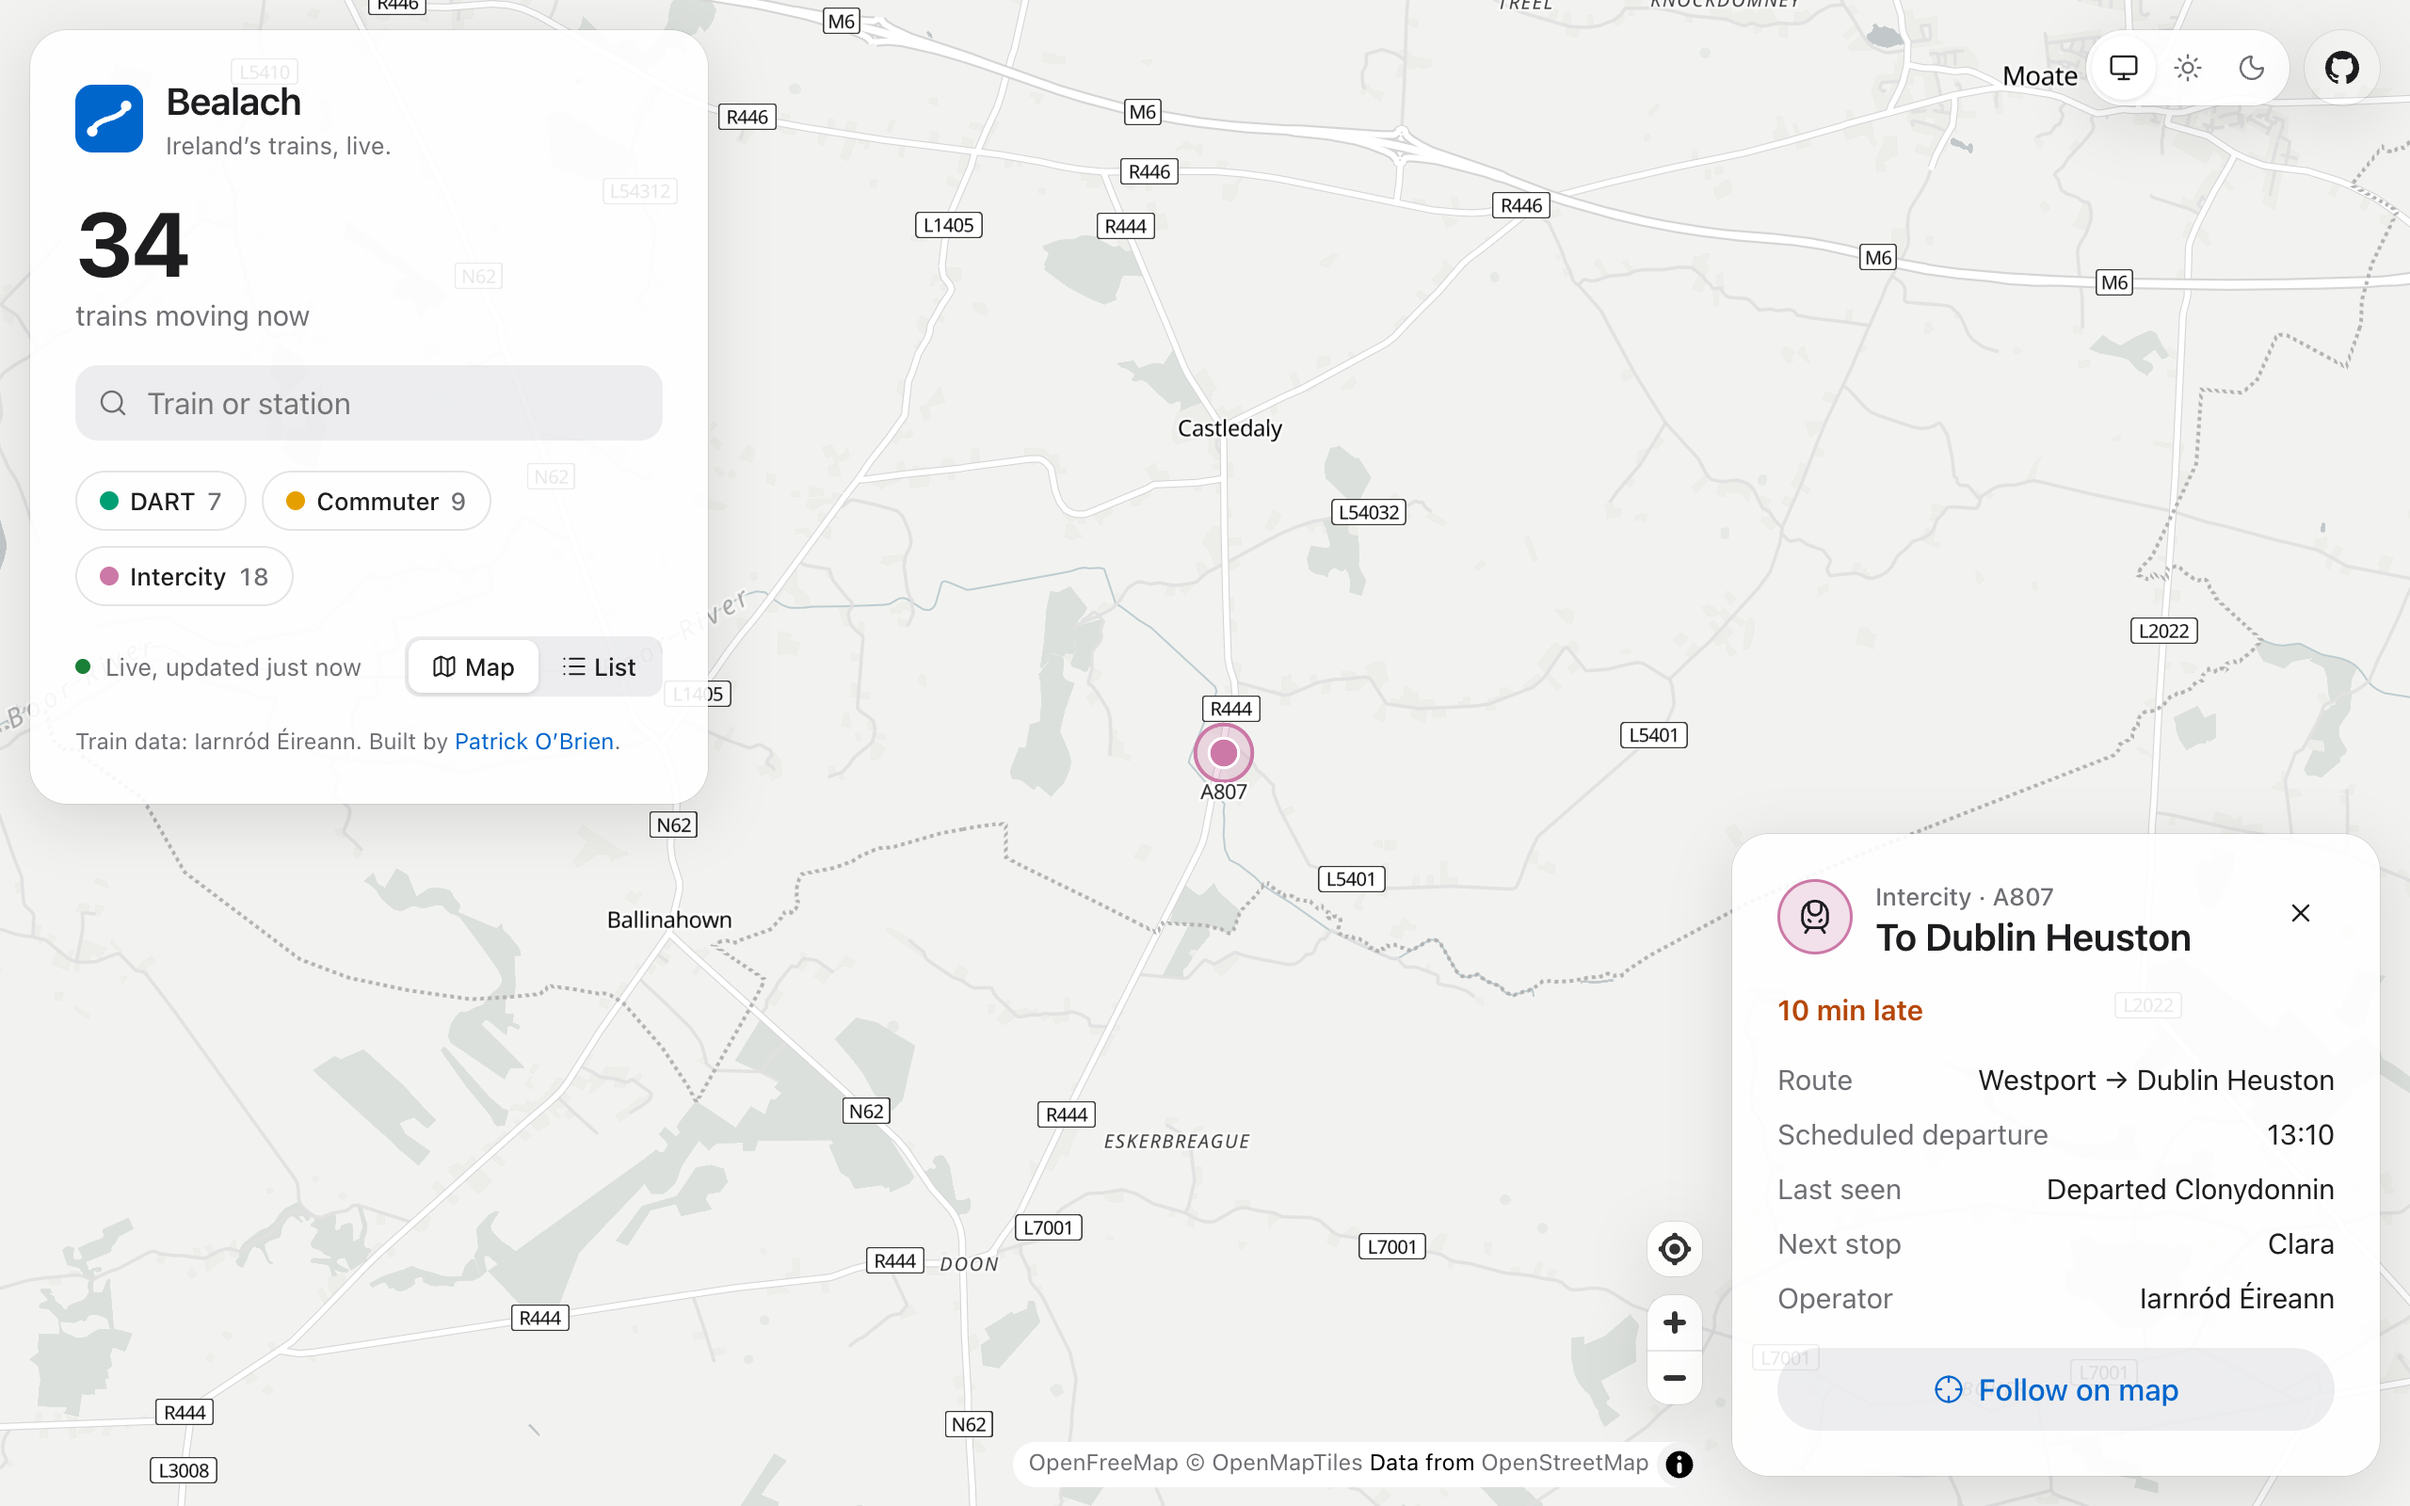
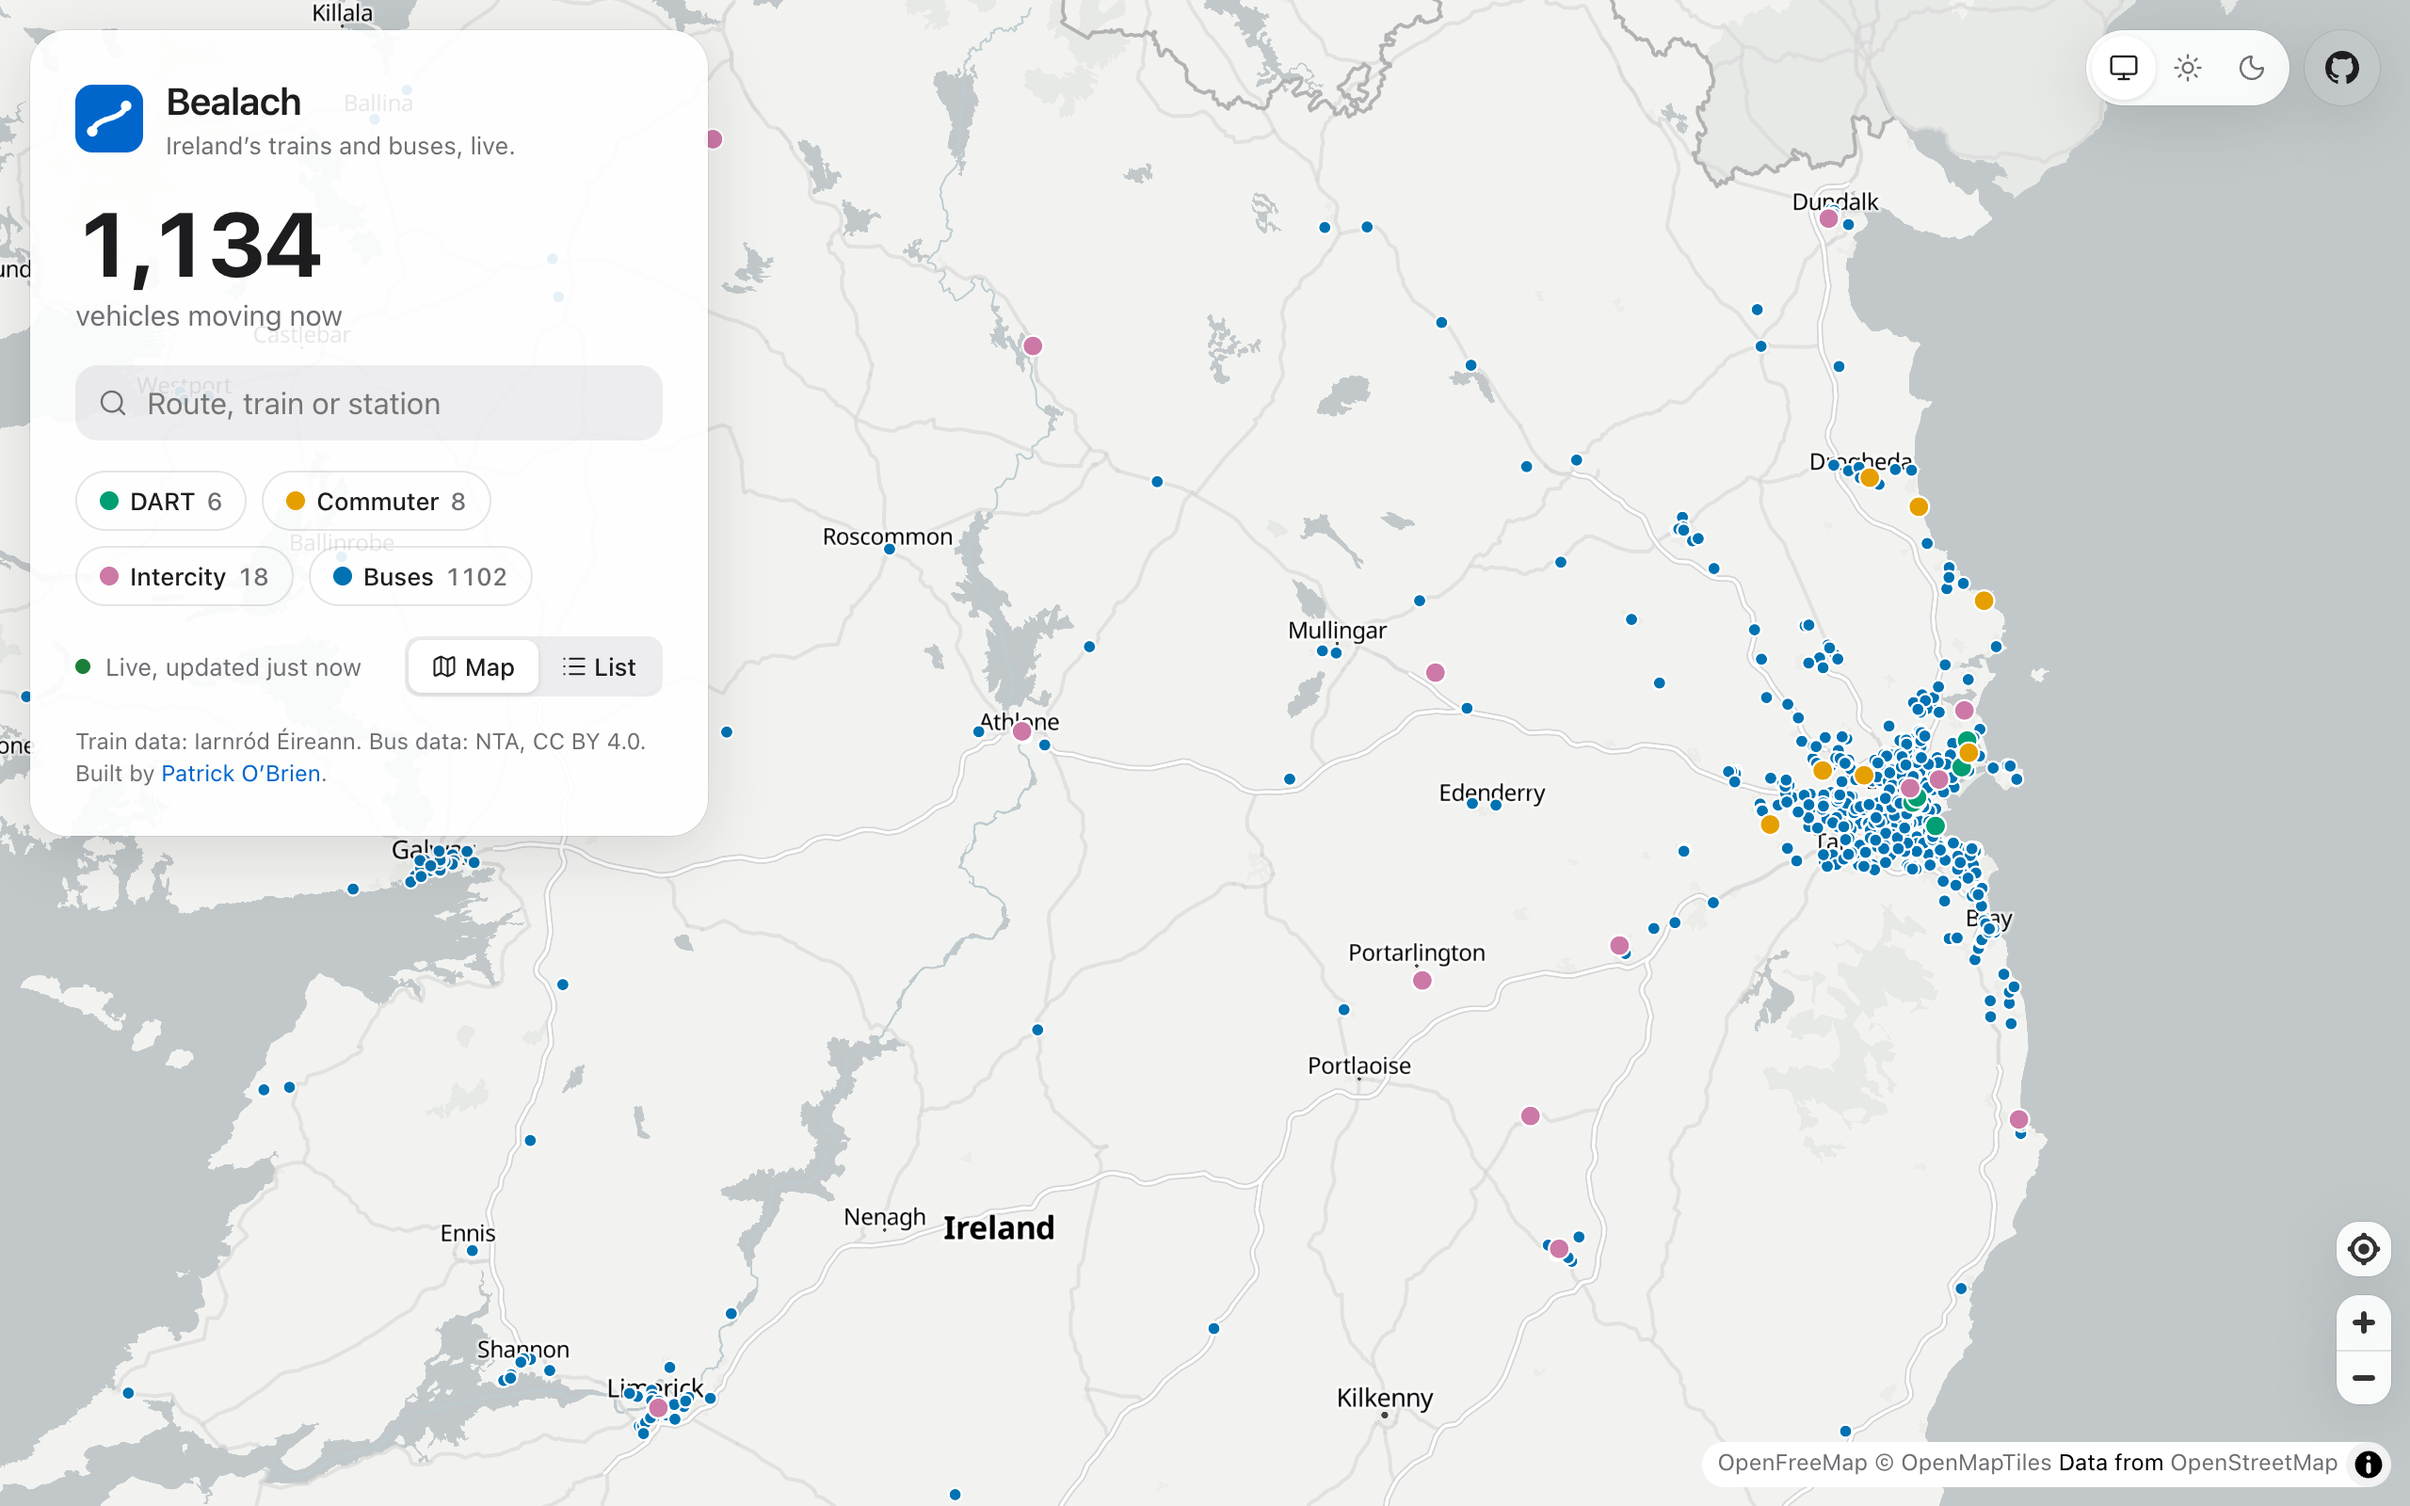
Show buses from the NTA feed
Tested against the live feed (about 1,100 vehicles). Hides positions
older than 10 minutes, shows each bus's position age, draws trains above
buses, and recolours buses blue so they stand apart from Commuter orange.
The feed carries no Luas trams, so their filter only appears if some do.

diff --git a/lib/buses.ts b/lib/buses.ts
@@ -3,12 +3,17 @@ import routesJson from '@/data/routes.json';
 import type { Vehicle } from './vehicles';
 
 // NTA's GTFS-Realtime vehicle positions: Dublin Bus, Bus Éireann, Go-Ahead
-// and others. Needs a free key from developer.nationaltransport.ie.
+// and others (no Luas at present, though it's handled if it appears). Needs
+// a free key from developer.nationaltransport.ie.
 const URL = 'https://api.nationaltransport.ie/gtfsr/v2/Vehicles?format=json';
 
 // Built by scripts/update-routes.mjs; `to` is the usual destination per direction.
 type Route = { name: string; long: string; operator: string; type: number; to: (string | null)[] };
 const ROUTES = routesJson as unknown as Record<string, Route>;
+
+// About 1% of vehicles stop reporting without leaving the feed (parked or out
+// of service). Past this age, a position is more likely wrong than late.
+const MAX_AGE_S = 600;
 
 export const busesEnabled = () => Boolean(process.env.NTA_API_KEY);
 
@@ -20,14 +25,19 @@ type Entity = {
     trip?: { route_id?: string; routeId?: string; direction_id?: number; directionId?: number };
     position?: { latitude: number; longitude: number };
     vehicle?: { id?: string; label?: string };
+    /** Seconds since the epoch, as a string or number. */
+    timestamp?: string | number;
   };
 };
 
-export function toVehicle(e: Entity): Vehicle | null {
+/** `now` is the feed's own timestamp in seconds, so clock skew doesn't matter. */
+export function toVehicle(e: Entity, now?: number): Vehicle | null {
   const v = e.vehicle;
   const lat = Number(v?.position?.latitude);
   const lon = Number(v?.position?.longitude);
   if (!v || !lat || !lon) return null;
+  const seen = Number(v.timestamp) || undefined;
+  if (now && seen && now - seen > MAX_AGE_S) return null;
 
   const routeId = v.trip?.route_id ?? v.trip?.routeId;
   const route = routeId ? ROUTES[routeId] : undefined;
@@ -45,6 +55,7 @@ export function toVehicle(e: Entity): Vehicle | null {
     title: route?.long ?? 'Unknown route',
     to,
     operator: route?.operator.replace(/^Bus Átha Cliath – /, '').replace(/^LUAS$/, 'Luas'),
+    seen: seen ? seen * 1000 : undefined,
   };
 }
 
@@ -57,6 +68,7 @@ export async function fetchBuses(): Promise<Vehicle[]> {
     cache: 'no-store',
   });
   if (!res.ok) throw new Error(`NTA returned ${res.status}`);
-  const data = (await res.json()) as { entity?: Entity[] };
-  return (data.entity ?? []).map(toVehicle).filter((v): v is Vehicle => v !== null);
+  const data = (await res.json()) as { header?: { timestamp?: string | number }; entity?: Entity[] };
+  const now = Number(data.header?.timestamp) || Date.now() / 1000;
+  return (data.entity ?? []).map((e) => toVehicle(e, now)).filter((v): v is Vehicle => v !== null);
 }

diff --git a/components/Bealach.tsx b/components/Bealach.tsx
@@ -112,8 +112,10 @@ export function Bealach({ busesEnabled }: { busesEnabled: boolean }) {
     [wide, Boolean(selected)], // eslint-disable-line react-hooks/exhaustive-deps
   );
 
-  // Modes this instance can show: trains always; buses and Luas with an NTA key.
-  const modes = MODES.filter((m) => busesEnabled || (m.mode !== 'bus' && m.mode !== 'luas'));
+  // Trains always; buses with an NTA key. The NTA feed has no Luas trams at
+  // present, so their filter appears only if some do.
+  const hasLuas = buses.vehicles.some((v) => v.mode === 'luas');
+  const modes = MODES.filter((m) => (m.mode === 'bus' ? busesEnabled : m.mode === 'luas' ? hasLuas : true));
   const loading = trains.loading || buses.loading;
   const failed = trains.error && trains.vehicles.length === 0 && !trains.loading;
   const updated = trains.updated;
@@ -261,7 +263,7 @@ export function Bealach({ busesEnabled }: { busesEnabled: boolean }) {
         }} />}
 
         <footer className="credits">
-          Train data: Iarnród Éireann{busesEnabled ? '. Bus and Luas data: NTA, CC BY 4.0' : ''}.{' '}
+          Train data: Iarnród Éireann{busesEnabled ? '. Bus data: NTA, CC BY 4.0' : ''}.{' '}
           Built by <a href="https://patrickob.tech">Patrick O’Brien</a>.
         </footer>
       </section>
@@ -269,6 +271,7 @@ export function Bealach({ busesEnabled }: { busesEnabled: boolean }) {
       {selected && (
         <VehicleCard
           vehicle={selected}
+          now={now}
           follow={follow}
           onFollow={() => setFollow((f) => !f)}
           onClose={() => select(null)}
@@ -345,11 +348,13 @@ function VehicleList({
 
 function VehicleCard({
   vehicle: v,
+  now,
   follow,
   onFollow,
   onClose,
 }: {
   vehicle: Vehicle;
+  now: number;
   follow: boolean;
   onFollow: () => void;
   onClose: () => void;
@@ -405,6 +410,12 @@ function VehicleCard({
           <div>
             <dt>Operator</dt>
             <dd>{v.operator}</dd>
+          </div>
+        )}
+        {v.seen && (
+          <div>
+            <dt>Position from</dt>
+            <dd>{ago(new Date(v.seen), now)}</dd>
           </div>
         )}
       </dl>

diff --git a/lib/vehicles.ts b/lib/vehicles.ts
@@ -21,6 +21,8 @@ export type Vehicle = {
   operator?: string;
   /** Scheduled departure from origin, "HH:MM". */
   departed?: string;
+  /** When the vehicle last reported its position (epoch ms). Buses only. */
+  seen?: number;
 };
 
 export type Feed = { vehicles: Vehicle[]; updated: string };
@@ -31,7 +33,9 @@ export const MODES: { mode: Mode; label: string; plural: string; color: string }
   { mode: 'commuter', label: 'Commuter', plural: 'Commuter', color: '#e69f00' },
   { mode: 'intercity', label: 'Intercity', plural: 'Intercity', color: '#cc79a7' },
   { mode: 'luas', label: 'Luas', plural: 'Luas', color: '#7c3aed' },
-  { mode: 'bus', label: 'Bus', plural: 'Buses', color: '#d55e00' },
+  // Blue, not Okabe–Ito's vermilion, which sat too close to Commuter orange
+  // once a thousand buses were on the map.
+  { mode: 'bus', label: 'Bus', plural: 'Buses', color: '#0072b2' },
 ];
 
 export const MODE_BY_ID = Object.fromEntries(MODES.map((m) => [m.mode, m])) as Record<

diff --git a/components/TransitMap.tsx b/components/TransitMap.tsx
@@ -60,6 +60,8 @@ function addLayers(map: MapLibre, dark: boolean) {
     id: 'vehicle-dot',
     type: 'circle',
     source: 'vehicles',
+    // Trains are few and buses many: draw trains on top.
+    layout: { 'circle-sort-key': byMode(0, 1) as never },
     paint: {
       'circle-radius': radius as never,
       'circle-color': color as never,

diff --git a/README.md b/README.md
@@ -4,12 +4,12 @@
 
 Bealach (Irish for "way" or "route", said *BAL-ukh*) shows every Irish Rail,
 DART and commuter train moving right now, with how late it's running, where it
-was last seen and its next stop. Add a free NTA key and Dublin Bus, Bus
-Éireann, Go-Ahead and Luas appear too.
+was last seen and its next stop. Add a free NTA key and over a thousand Dublin
+Bus, Bus Éireann and Go-Ahead buses appear too.
 
-[![Bealach showing an Intercity train to Dublin Heuston, 10 minutes late, between Clonydonnin and Clara](docs/screenshot.png)](docs/screenshot.png)
+[![Bealach showing 1,134 trains and buses across Ireland, with buses clustered around Dublin, Galway and Limerick](docs/screenshot.png)](docs/screenshot.png)
 
-[![Deploy with Vercel](https://vercel.com/button)](https://vercel.com/new/clone?repository-url=https%3A%2F%2Fgithub.com%2Fobrienafc%2Fbealach&project-name=bealach&env=NTA_API_KEY&envDescription=Optional%3A%20free%20key%20from%20developer.nationaltransport.ie%20for%20buses%20and%20Luas&envLink=https%3A%2F%2Fdeveloper.nationaltransport.ie)
+[![Deploy with Vercel](https://vercel.com/button)](https://vercel.com/new/clone?repository-url=https%3A%2F%2Fgithub.com%2Fobrienafc%2Fbealach&project-name=bealach&env=NTA_API_KEY&envDescription=Optional%3A%20free%20key%20from%20developer.nationaltransport.ie%20for%20buses&envLink=https%3A%2F%2Fdeveloper.nationaltransport.ie)
 
 ## Features
 
@@ -32,12 +32,13 @@ was last seen and its next stop. Add a free NTA key and Dublin Bus, Bus
 | Layer | Source | Key |
 | ----- | ------ | --- |
 | Trains (DART, Commuter, Intercity) | [Irish Rail realtime API](https://api.irishrail.ie/realtime/) | None |
-| Buses and Luas | [NTA GTFS-Realtime](https://developer.nationaltransport.ie) | Free, set `NTA_API_KEY` |
+| Buses (Dublin Bus, Bus Éireann, Go-Ahead) | [NTA GTFS-Realtime](https://developer.nationaltransport.ie) | Free, set `NTA_API_KEY` |
 | Route names and destinations | NTA GTFS timetable, read at build time | None |
 | Map | [OpenFreeMap](https://openfreemap.org), © OpenMapTiles, © OpenStreetMap contributors | None |
 
-Irish Rail reports where each train last checked in, usually a station, rather
-than GPS. Trains therefore move in hops between stations, and Bealach glides
+Bus positions are GPS, refreshed about every 30 seconds; buses that haven't
+reported for 10 minutes are hidden. Irish Rail reports where each train last
+checked in, usually a station, rather than GPS. Trains therefore move in hops between stations, and Bealach glides
 them along so the motion is easy to follow.
 
 ## How it works
@@ -62,7 +63,7 @@ npm install
 npm run dev
 ```
 
-Buses and Luas need an NTA key: register at
+Buses need an NTA key: register at
 [developer.nationaltransport.ie](https://developer.nationaltransport.ie),
 subscribe to the GTFS-R API, and set it as `NTA_API_KEY` (in `.env.local`, or
 in your host's environment variables). No rebuild is needed; buses appear on
